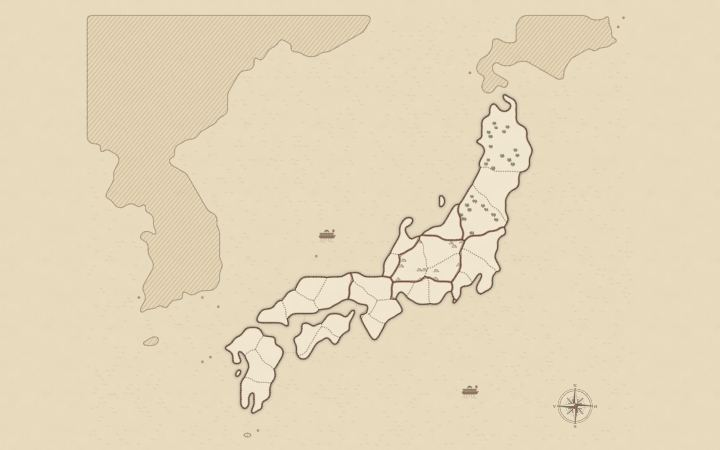
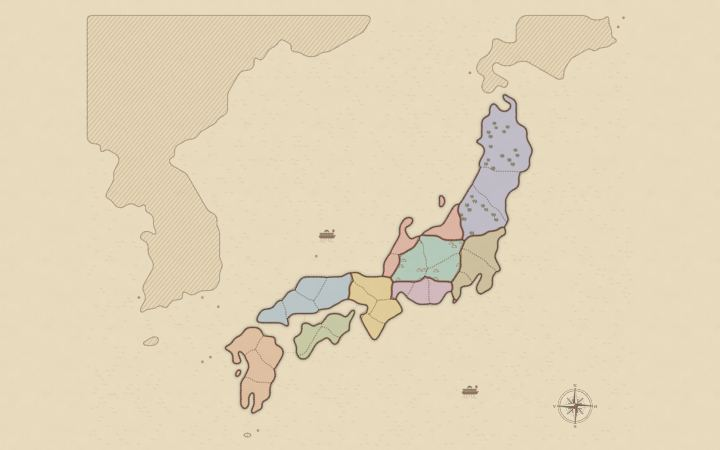
Frit spil: no speed choice, the togt pictures, maps locked again
Martin's notes: the computer always plays calmly; a map shows its
togt's picture where there is one, and the map pictures are tinted by
region; and a veteran (played before the togter) keeps only the maps
there were then, so the new ones open by winning their togt. The togter
pitch now runs from Rome to today.

Changed region(s): [[0.3056, 0.2178, 0.7333, 0.9333]]

diff --git a/js/app.js b/js/app.js
@@ -112,7 +112,7 @@ function saveSettings(settings) {
 }
 
 // The togter won and lost (js/togter.js). Someone with settings or a game saved from before there
-// were togter is a veteran: every map stays open in the free game.
+// were togter is a veteran: the maps there were then stay open in the free game.
 function loadProgress() {
   try {
     const saved = JSON.parse(localStorage.getItem(PROGRESS));
@@ -153,7 +153,7 @@ function startFromSettings(settings = loadSettings()) {
   const free = COLORS.map((_, i) => i).filter((i) => !settings.people.some((x) => x.look === i));
   const names = shuffled(mapIn(settings.map).RULERS ?? L.opponents);
   const bots = Array.from({ length: settings.opponents }, (_, i) => ({ kind: settings.level, name: names[i], color: free[i] }));
-  startGame(shuffled([...people, ...bots]), settings.speed, settings.mode, undefined, settings.map);
+  startGame(shuffled([...people, ...bots]), 'normal', settings.mode, undefined, settings.map);
 }
 
 // A togt: the one person at the phone against the togt's opponents, on the togter's level, starting
@@ -171,7 +171,7 @@ function startTogt(id, { intro = true } = {}) {
   useMap(id);
   const start = togtStart(map, togt, order.indexOf(you), order.length);
   const mode = settings.togtGoal === 'all' ? 'world' : 'mission';
-  startGame(order, settings.speed, mode, undefined, id, { togt: id, quiet: intro, ...start, bonus: togt.bonus ?? 0 });
+  startGame(order, 'normal', mode, undefined, id, { togt: id, quiet: intro, ...start, bonus: togt.bonus ?? 0 });
   if (intro) showChapter(id);
 }
 
@@ -693,7 +693,6 @@ const CHOICES = {
   // A map still to be won in the togter is shown locked.
   map: () => Object.keys(MAPS).map((id) => [id, mapIn(id).name, !isFree(id)]),
   mode: () => Object.entries(L.modes),
-  speed: () => Object.entries(L.speeds),
 };
 
 const andList = (list) => (list.length > 1 ? `${list.slice(0, -1).join(', ')} ${L.and} ${list.at(-1)}` : list[0]);
@@ -794,11 +793,11 @@ function renderSetup() {
         b.type = 'button';
         b.textContent = locked ? `🔒 ${label}` : label;
         b.disabled = !!locked;
-        // The maps are small pictures of themselves (tools/map-shots.mjs).
+        // The maps show their togt's picture, or a small picture of themselves (tools/map-shots.mjs).
         if (name === 'map') {
           const picture = document.createElement('span');
           picture.className = 'map-picture';
-          picture.style.backgroundImage = `url('assets/maps/${value}.jpg')`;
+          picture.style.backgroundImage = `url('${pictureOf(value)}')`;
           b.prepend(picture);
         }
         b.setAttribute('aria-pressed', String(draft[name] === value));
@@ -1157,7 +1156,9 @@ $('choose-free').addEventListener('click', () => {
 // The togter as a line of years, oldest first: won, the next one, or locked until the one before is
 // won. The opponents' level is chosen here, once for all of them.
 // A togt's picture (togter.js, art), or for a togt without one, its map (tools/map-shots.mjs).
-const pictureOf = (id) => togtOf(id)?.art ?? `assets/maps/${id}.jpg`;
+function pictureOf(id) {
+  return togtOf(id)?.art ?? `assets/maps/${id}.jpg`;
+}
 function openTogter() {
   renderTogter();
   $('togter').showModal();

diff --git a/js/lang/da.js b/js/lang/da.js
@@ -37,7 +37,6 @@ export const DA = {
   addPerson: '+ Tilføj spiller',
   computerPlayers: 'Computerspillere',
   computerLevel: 'Computerens sværhedsgrad',
-  computerSpeed: 'Computerens tempo',
   theGame: 'Spillet',
   map: 'Kort',
   victory: 'Sejr',
@@ -70,7 +69,7 @@ export const DA = {
   hello: (name) => (name ? `Velkommen, ${name}` : 'Velkommen'),
   howPlay: 'Hvordan vil du spille?',
   togterTitle: 'Togter',
-  togterPitch: 'Spil historien fra Rom til Napoleon, ét felttog ad gangen. Godt at begynde med.',
+  togterPitch: 'Spil historien fra Rom til i dag, ét felttog ad gangen. Godt at begynde med.',
   freeGame: 'Frit spil',
   freePitch: 'Vælg kort og modstandere. Spil mod computeren, eller med venner på samme telefon som et brætspil.',
   switchLater: 'Du kan altid skifte fra startskærmen.',
@@ -242,7 +241,6 @@ export const DA = {
   /* ---------- the setup ---------- */
   levels: { novice: 'Let', medium: 'Normal', hard: 'Svær' },
   modes: { mission: 'Hemmelig mission', world: 'Erobr hele kortet' },
-  speeds: { normal: 'Roligt', fast: 'Hurtigt' },
   bots: (n, level) => `${plural(n, 'computerspiller', 'computerspillere')} (${{ novice: 'lette', medium: 'normale', hard: 'svære' }[level]})`,
   against: (names, bots) => `${names} mod ${bots}`,
   eachOther: (names) => `${names} mod hinanden`,

diff --git a/js/lang/en.js b/js/lang/en.js
@@ -38,7 +38,6 @@ export const EN = {
   addPerson: '+ Add player',
   computerPlayers: 'Computer players',
   computerLevel: 'Computer difficulty',
-  computerSpeed: 'Computer speed',
   theGame: 'The game',
   map: 'Map',
   victory: 'Victory',
@@ -71,7 +70,7 @@ export const EN = {
   hello: (name) => (name ? `Welcome, ${name}` : 'Welcome'),
   howPlay: 'How would you like to play?',
   togterTitle: 'Campaigns',
-  togterPitch: 'Play history from Rome to Napoleon, one war at a time. A good place to begin.',
+  togterPitch: 'Play history from Rome to today, one war at a time. A good place to begin.',
   freeGame: 'Free play',
   freePitch: 'Choose the map and the opponents. Play the computer, or friends on the same phone, like a board game.',
   switchLater: 'You can always switch from the start screen.',
@@ -241,7 +240,6 @@ export const EN = {
   /* ---------- the setup ---------- */
   levels: { novice: 'Easy', medium: 'Normal', hard: 'Hard' },
   modes: { mission: 'Secret mission', world: 'Conquer the map' },
-  speeds: { normal: 'Calm', fast: 'Fast' },
   bots: (n, level) => `${plural(n, 'computer player', 'computer players')} (${{ novice: 'easy', medium: 'normal', hard: 'hard' }[level]})`,
   against: (names, bots) => `${names} against ${bots}`,
   eachOther: (names) => `${names} against each other`,

diff --git a/js/togter.js b/js/togter.js
@@ -42,8 +42,10 @@ export function togtStart(map, togt, seat, players) {
   return { home, goals };
 }
 
-// The free game always has the world. Someone who played before there were togter has every map.
+// The free game always has the world. Someone who played before there were togter keeps the maps
+// there were then (1 November 2026); the maps that came with the togter are won like everyone else's.
 const ALWAYS_FREE = ['world'];
+const VETERAN_MAPS = ['italy', 'alexander', 'vikings', 'england', 'japan', 'napoleon', 'world'];
 
 // What the player has done: welcomed (has seen the welcome), veteran (played before togter came),
 // won: { map: level } (the hardest level won on), lost: { map: losses since the last win }.
@@ -55,7 +57,7 @@ export const isOpen = (progress, i) => i === 0 || TOGTER.slice(i - 1).some((t) =
 
 export const nextTogt = (map) => TOGTER[TOGTER.findIndex((t) => t.map === map) + 1] ?? null;
 
-export const freeMaps = (progress, all) => all.filter((id) => progress.veteran || ALWAYS_FREE.includes(id) || progress.won[id]);
+export const freeMaps = (progress, all) => all.filter((id) => (progress.veteran && VETERAN_MAPS.includes(id)) || ALWAYS_FREE.includes(id) || progress.won[id]);
 
 const RANK = { novice: 0, medium: 1, hard: 2 };
 

diff --git a/index.html b/index.html
@@ -156,7 +156,6 @@
           <div class="field"><span data-t="computerPlayers"></span><div class="pills" data-name="opponents"></div></div>
           <div id="bot-fields">
             <div class="field"><span data-t="computerLevel"></span><div class="pills" data-name="level"></div></div>
-            <div class="field"><span data-t="computerSpeed"></span><div class="pills" data-name="speed"></div></div>
           </div>
         </section>
         <section class="group">
